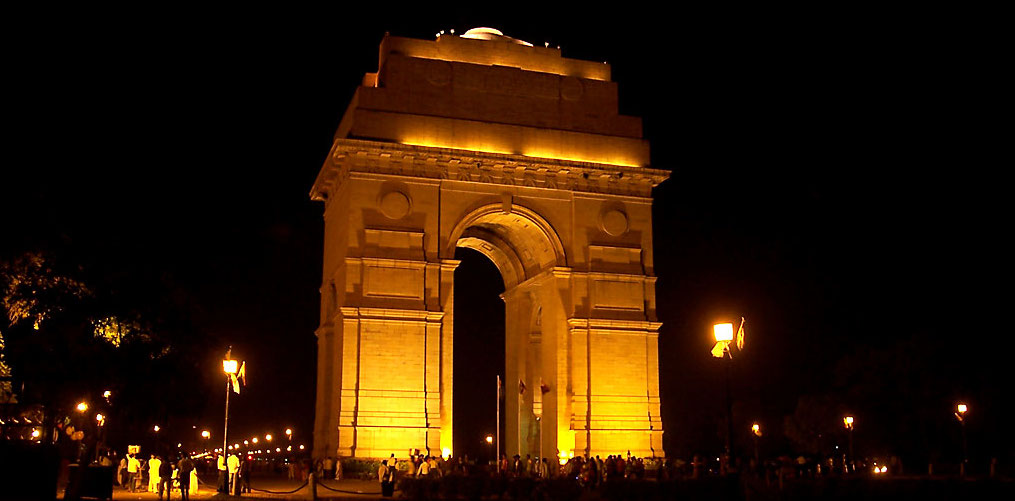
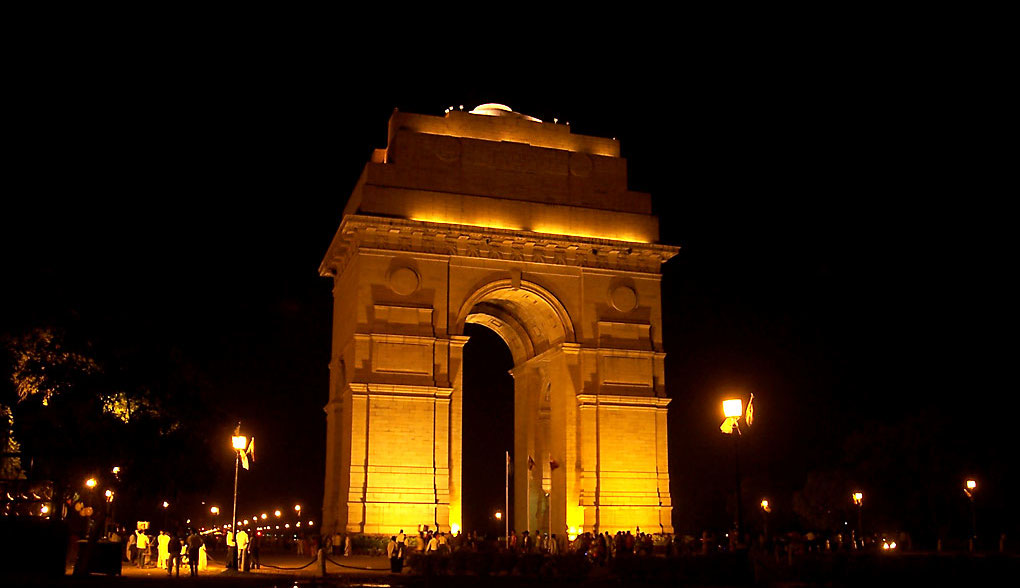
background image fix

diff --git a/stylesheet.css b/stylesheet.css
@@ -1,13 +1,9 @@
 /* pushes the page to the full capacity of the viewing area */
 body {
     background: url('/images/indiagate-1024.jpg') no-repeat fixed;
-    -webkit-background-size: 100% 100%;
-    -moz-background-size: cover;
-    -o-background-size: cover;
-    background-size: 100% 100%;
+        -webkit-background-size: cover;
+        -moz-background-size: cover;
+        -o-background-size: cover;
+        background-size: cover;
+	background-position:center; 
 }
-
-a:link {color:#FFFFFF;}    /* unvisited link */
-a:visited {color:#FFFFFF;} /* visited link */
-a:hover {color:#FFFFFF;}   /* mouse over link */
-a:active {color:#FFFFFF;}  /* selected link */
